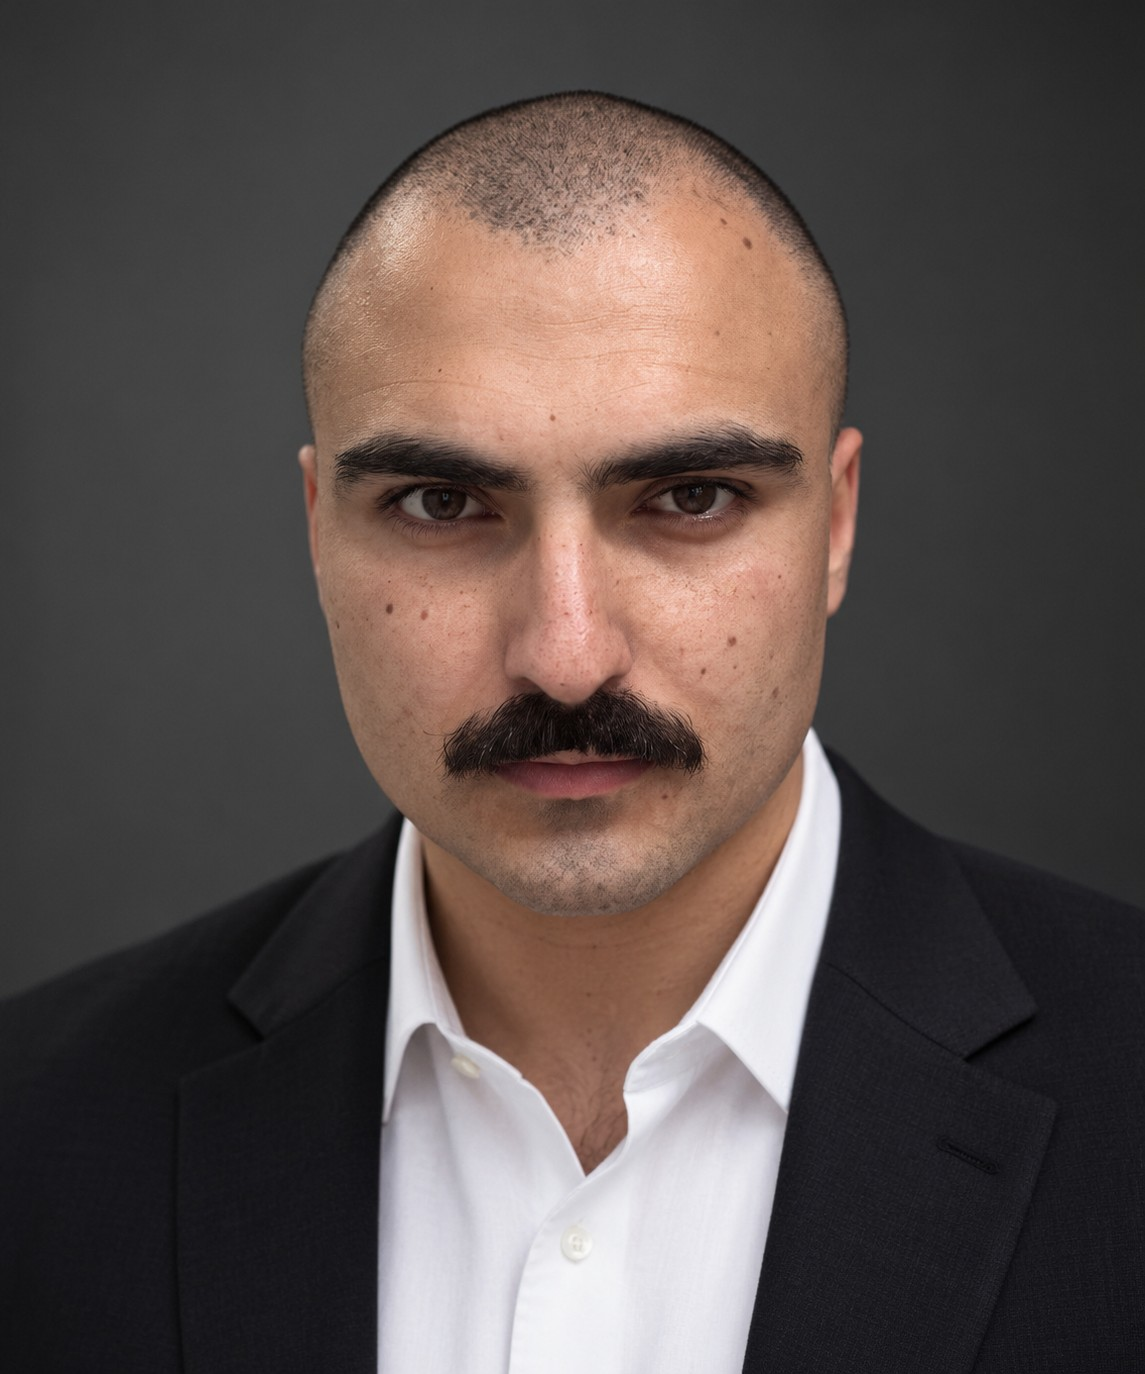
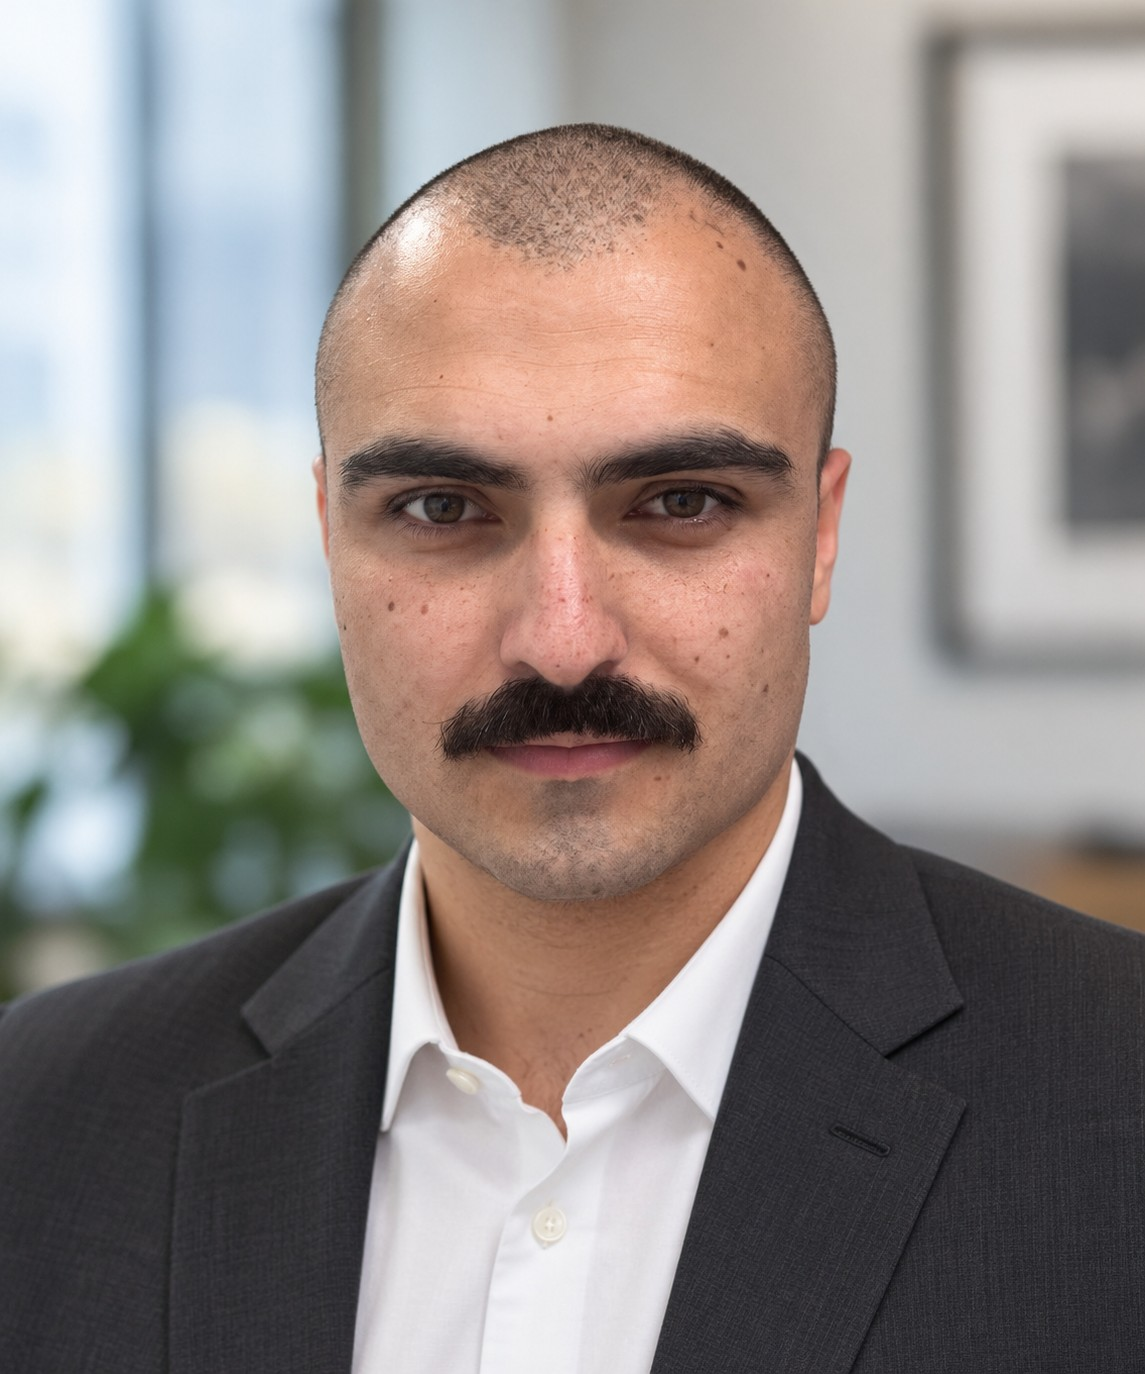
Update Sebastian's headshot and title, darken uncarded body copy
Swaps in the new professional headshot for Sebastian, updates his
title to Creative Operations Associate on the homepage and About
page, and sets body copy that sits directly on the background scene
(hero lede, section intros, large lede text) to black for readability,
leaving text inside cards/panels unchanged since it already has its
own backing.

diff --git a/about.html b/about.html
@@ -101,13 +101,13 @@
             <img class="bio-photo" src="assets/img/sebastian-vivas.jpg" alt="Portrait of Sebastian Vivas" width="1145" height="1374" loading="lazy">
             <div class="bio-portrait-caption">
               <p class="name">Sebastian Vivas</p>
-              <p class="role">Creative Operations Coordinator</p>
+              <p class="role">Creative Operations Associate</p>
             </div>
           </div>
           <article class="bio-card" id="sebastian">
-          <p class="eyebrow">Creative Operations Coordinator</p>
+          <p class="eyebrow">Creative Operations Associate</p>
           <h2>Sebastian Vivas</h2>
-          <p>Sebastian Vivas is a Creative Operations Coordinator specializing in graphic design, web design, digital communications, and creative project development. His work sits at the intersection of design and business, translating ideas and organizational goals into clear, cohesive, and engaging visual experiences.</p>
+          <p>Sebastian Vivas is a Creative Operations Associate specializing in graphic design, web design, digital communications, and creative project development. His work sits at the intersection of design and business, translating ideas and organizational goals into clear, cohesive, and engaging visual experiences.</p>
           <p>With a broad skill set spanning brand development, website design, digital content, presentations, and marketing materials, he emphasizes thoughtful composition, clear communication, and practical execution, moving comfortably between creative and operational responsibilities.</p>
           <p>Sebastian brings a pragmatic, problem-solving approach to his work, informed by a longstanding interest in art, architecture, cinema, and design.</p>
         </article>

diff --git a/assets/css/styles.css b/assets/css/styles.css
@@ -450,7 +450,7 @@ button {
 .hero .lede {
   margin-top: var(--space-6);
   font-size: clamp(1.05rem, 1.6vw, 1.25rem);
-  color: var(--color-muted);
+  color: #000;
   max-width: 46ch;
   line-height: 1.65;
 }
@@ -493,14 +493,14 @@ section { padding-block: var(--space-9); }
 .section-head p {
   margin-top: var(--space-4);
   font-size: 1.1rem;
-  color: var(--color-muted);
+  color: #000;
   line-height: 1.65;
 }
 
 .lede-lg {
   font-size: clamp(1.15rem, 2vw, 1.5rem);
   line-height: 1.6;
-  color: var(--color-ink);
+  color: #000;
   max-width: 52rem;
 }
 

diff --git a/index.html b/index.html
@@ -147,7 +147,7 @@
           <img class="bio-photo" src="assets/img/sebastian-vivas.jpg" alt="Portrait of Sebastian Vivas" width="1145" height="1374" loading="lazy">
           <div class="bio-portrait-caption">
             <p class="name">Sebastian Vivas</p>
-            <p class="role">Creative Operations Coordinator</p>
+            <p class="role">Creative Operations Associate</p>
           </div>
         </div>
       </div>
